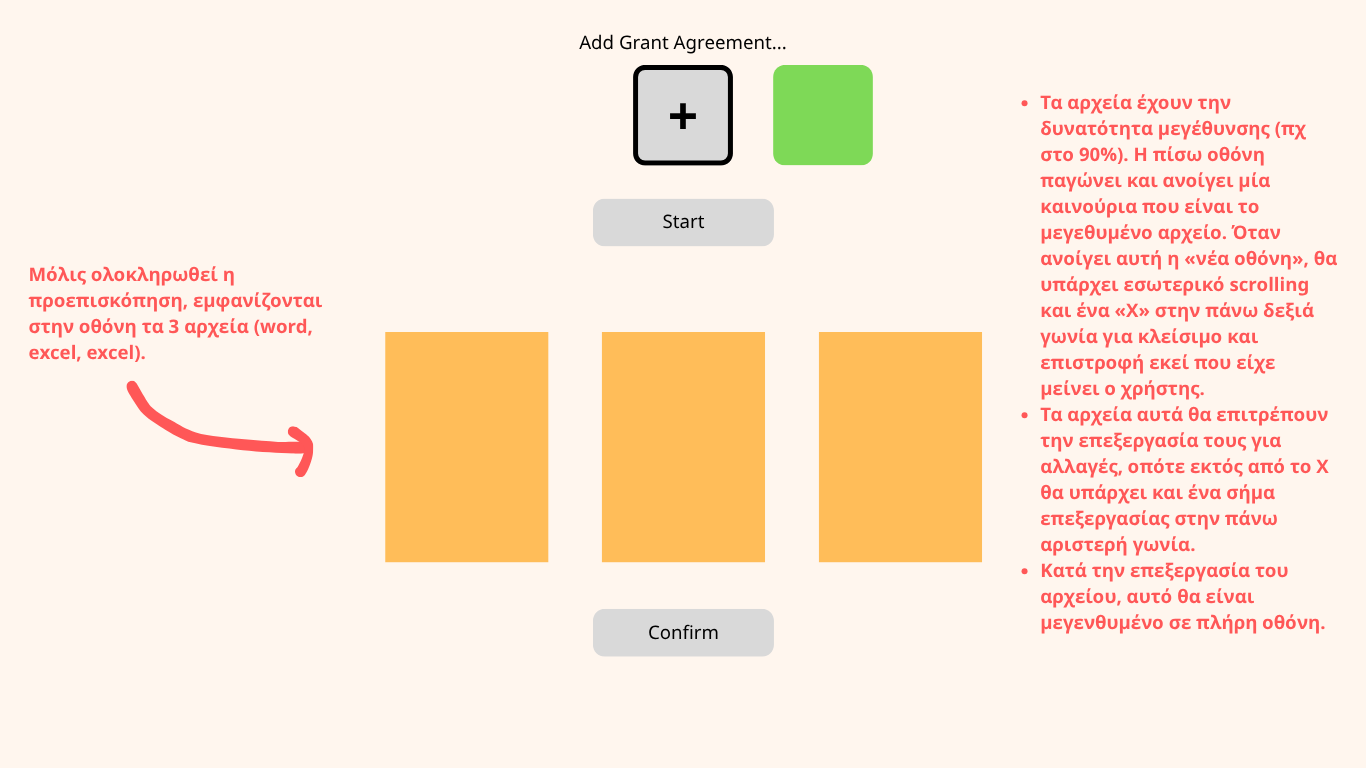
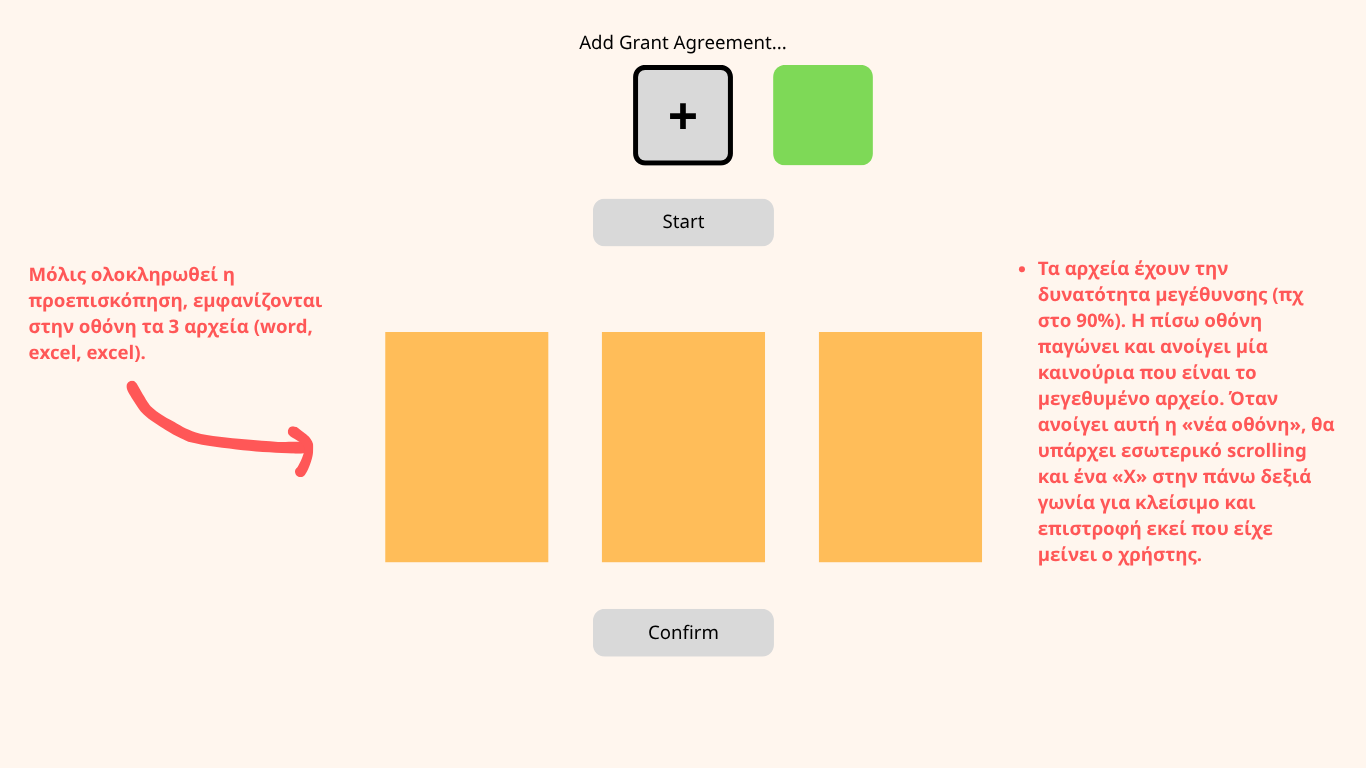
Update frontend description and wireframes to V1
Replace Frontend Description.docx and 1-4.png with V1, which drops the
edit mode in line with the implementation plan.

Changed region(s): [[0.7379, 0.125, 0.9839, 0.8438]]

diff --git a/docs/frontend-notes.md b/docs/frontend-notes.md
@@ -31,8 +31,8 @@ Logo ViLabs (επιστροφή στην αρχική), animated background, toa
 
 | # | Θέμα | Απόφαση |
 |---|---|---|
-| 1 | Edit mode (μολυβάκι) | **Αφαιρείται.** Τα previews είναι αυστηρά read-only, όπως ορίζει το plan. Κανένα εικονίδιο/λειτουργία επεξεργασίας. |
-| 2 | Ονόματα status | **Όπως το plan (§6):** `scanning` → `extracting` → `analyzing` → `generating` → `done` \| `error`. |
+| 1 | Edit mode (μολυβάκι) | **Αφαιρείται.** Τα previews είναι αυστηρά read-only, όπως ορίζει το plan. Κανένα εικονίδιο/λειτουργία επεξεργασίας. (Αφαιρέθηκε και από το docx / `3.png` στη V1.) |
+| 2 | Ονόματα status | **Όπως το plan (§6):** `scanning` → `extracting` → `analyzing` → `generating` → `done` \| `error`. (Το docx V1 γράφει ακόμα `extracting_text` κ.λπ. — ισχύει το plan.) |
 | 3 | Result page | **Ξεχωριστό route `/result?requestId=...`**, με το design του mockup. |
 | 4 | Logo | **Μετονομάστηκε σε `vilabs-logo.png`** (lowercase, ταιριάζει με το mockup, ασφαλές σε case-sensitive hosting όπως το Vercel). |
 
@@ -54,6 +54,7 @@ Logo ViLabs (επιστροφή στην αρχική), animated background, toa
 ### 2026-09-25
 - Κλείδωσαν οι αποφάσεις 1–4 (βλ. «Αποφάσεις»): χωρίς edit mode, status όπως το plan, ξεχωριστό `/result`.
 - Μετονομασία logo `ViLabs-logo.png` → `vilabs-logo.png`.
+- Αντικατάσταση `Frontend Description.docx` και `1.png`–`4.png` με τη **V1** (χωρίς edit mode).
 - **Επόμενο βήμα:** scaffold Next.js + TypeScript + Tailwind στο `frontend/`, routes `/` και `/result`.
 
 ### 2026-09-23
